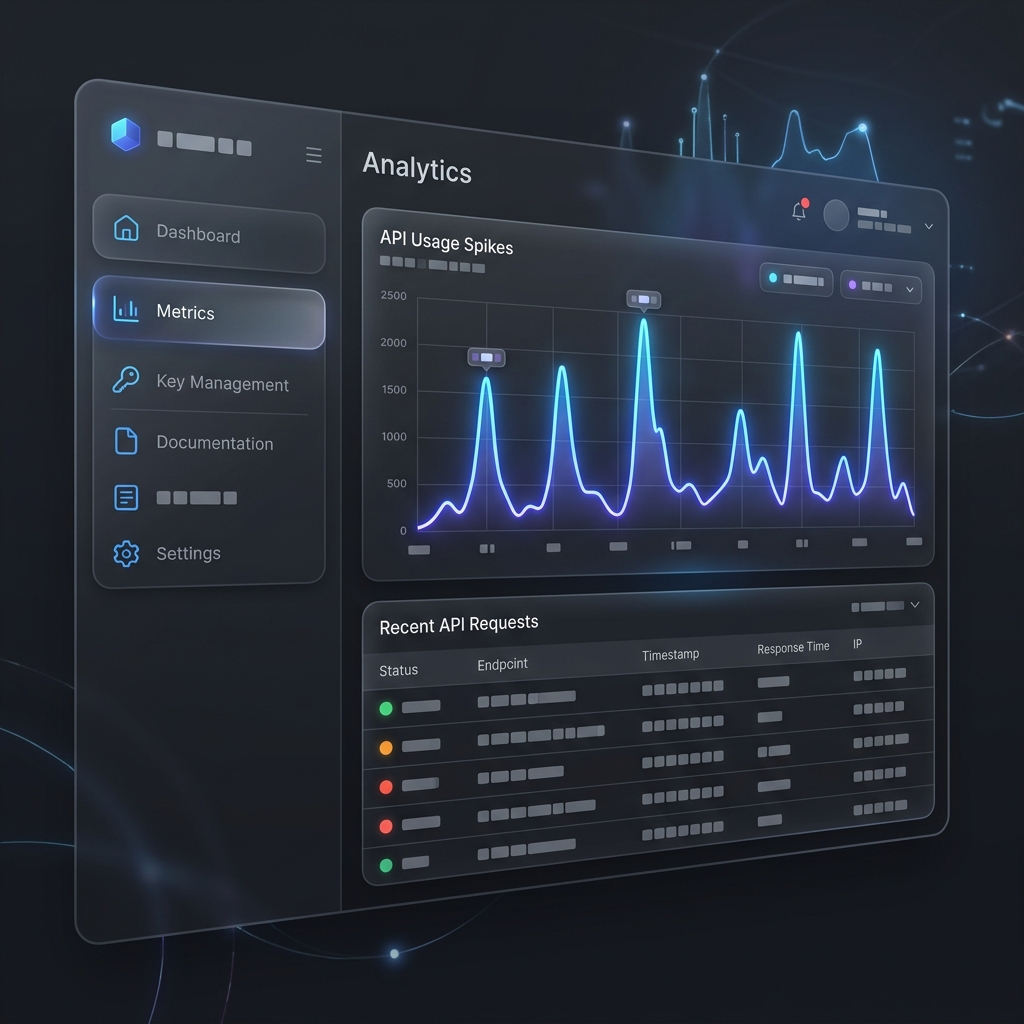
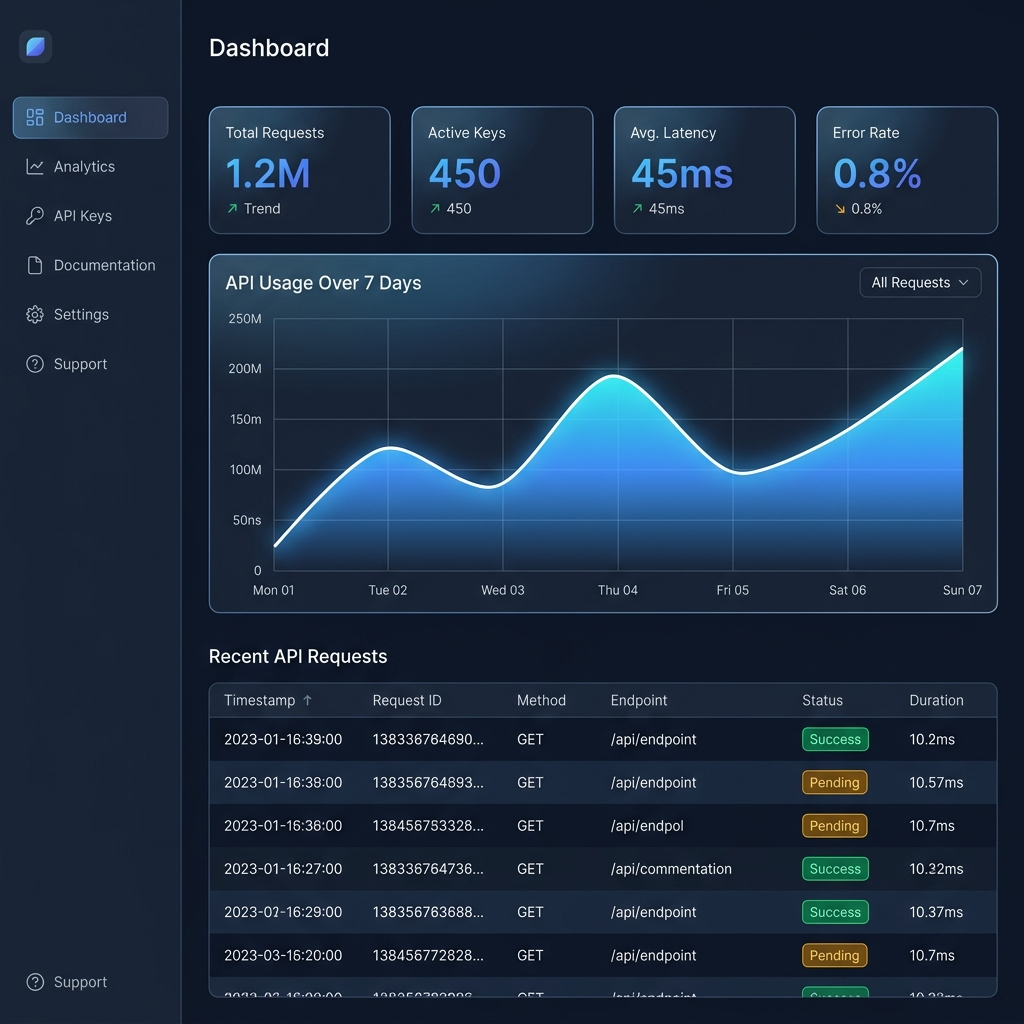
fix: replace mockup images with dark-mode versions and add smooth gradient fade masks

diff --git a/client/app/(public)/page.tsx b/client/app/(public)/page.tsx
@@ -107,16 +107,18 @@ export default function Home() {
 
           {/* Dashboard preview */}
           <div className="hero-image-wrapper mt-20 sm:mt-28 relative mx-auto max-w-5xl">
-            <div className="absolute -inset-4 rounded-3xl bg-gradient-to-r from-blue-500/30 via-indigo-500/20 to-cyan-500/30 opacity-60 blur-3xl pointer-events-none" />
-            <div className="relative rounded-2xl bg-slate-900/80 p-1.5 shadow-2xl ring-1 ring-white/10 backdrop-blur-sm">
+            <div className="absolute -inset-6 rounded-[2rem] bg-gradient-to-r from-blue-500/25 via-indigo-500/15 to-cyan-500/25 blur-3xl pointer-events-none" />
+            <div className="relative rounded-2xl overflow-hidden shadow-2xl shadow-blue-900/30 ring-1 ring-white/[0.08]">
               <Image
                 src="/dashboard-mockup.png"
                 alt="Nigris Dashboard Analytics"
                 width={2048}
                 height={2048}
-                className="rounded-xl w-full h-auto object-cover"
+                className="w-full h-auto object-cover"
                 priority
               />
+              {/* Bottom fade to blend with background */}
+              <div className="absolute inset-x-0 bottom-0 h-32 bg-gradient-to-t from-slate-950 to-transparent pointer-events-none" />
             </div>
           </div>
         </div>
@@ -233,15 +235,16 @@ console.log("Created:", record._id);`}</code>
         <div className="relative mx-auto max-w-7xl px-6 lg:px-8">
           <div className="grid grid-cols-1 lg:grid-cols-2 gap-16 items-center">
             <div className="settings-image relative order-2 lg:order-1">
-              <div className="absolute -inset-3 rounded-2xl bg-gradient-to-l from-indigo-500/20 to-blue-500/20 blur-2xl pointer-events-none" />
-              <div className="relative rounded-2xl bg-white/[0.03] p-1.5 ring-1 ring-white/10">
+              <div className="absolute -inset-4 rounded-[2rem] bg-gradient-to-l from-indigo-500/20 to-blue-500/20 blur-3xl pointer-events-none" />
+              <div className="relative rounded-2xl overflow-hidden shadow-2xl shadow-indigo-900/20 ring-1 ring-white/[0.08]">
                 <Image
                   src="/api-settings-mockup.png"
                   alt="API Settings and Keys"
                   width={2048}
                   height={2048}
-                  className="rounded-xl w-full h-auto object-cover"
+                  className="w-full h-auto object-cover"
                 />
+                <div className="absolute inset-x-0 bottom-0 h-24 bg-gradient-to-t from-slate-950 to-transparent pointer-events-none" />
               </div>
             </div>
             <div className="settings-text order-1 lg:order-2">
